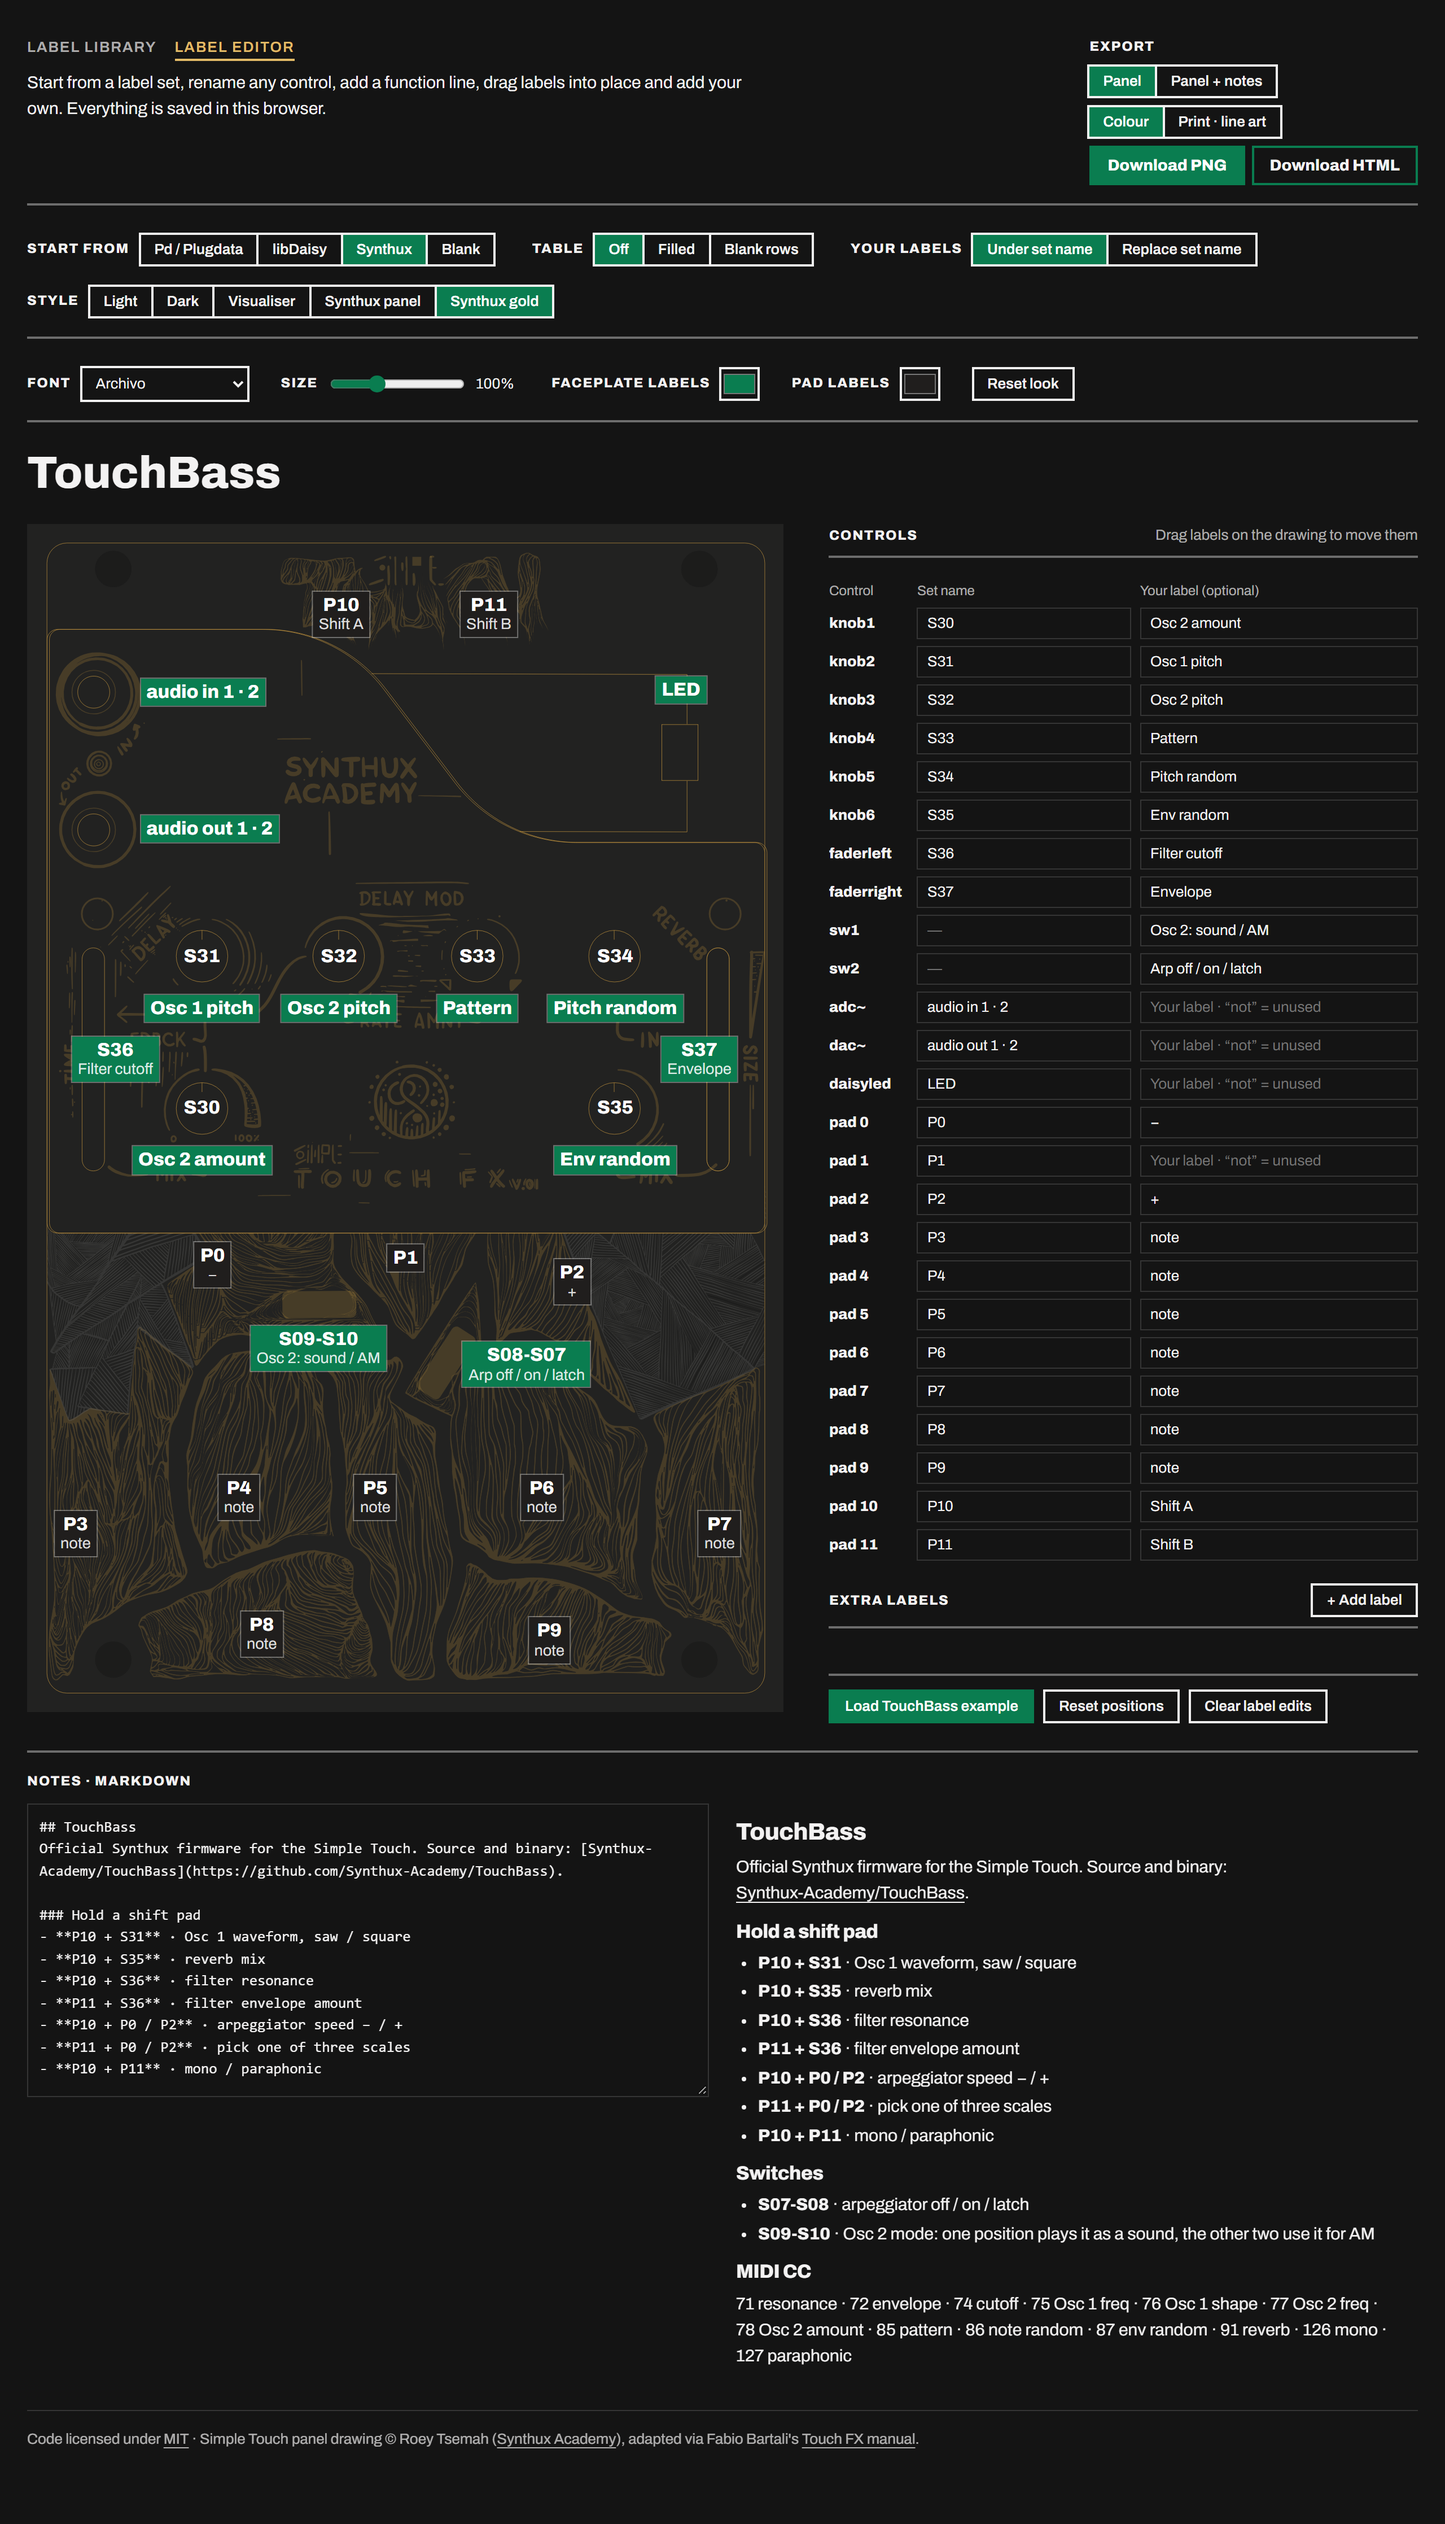
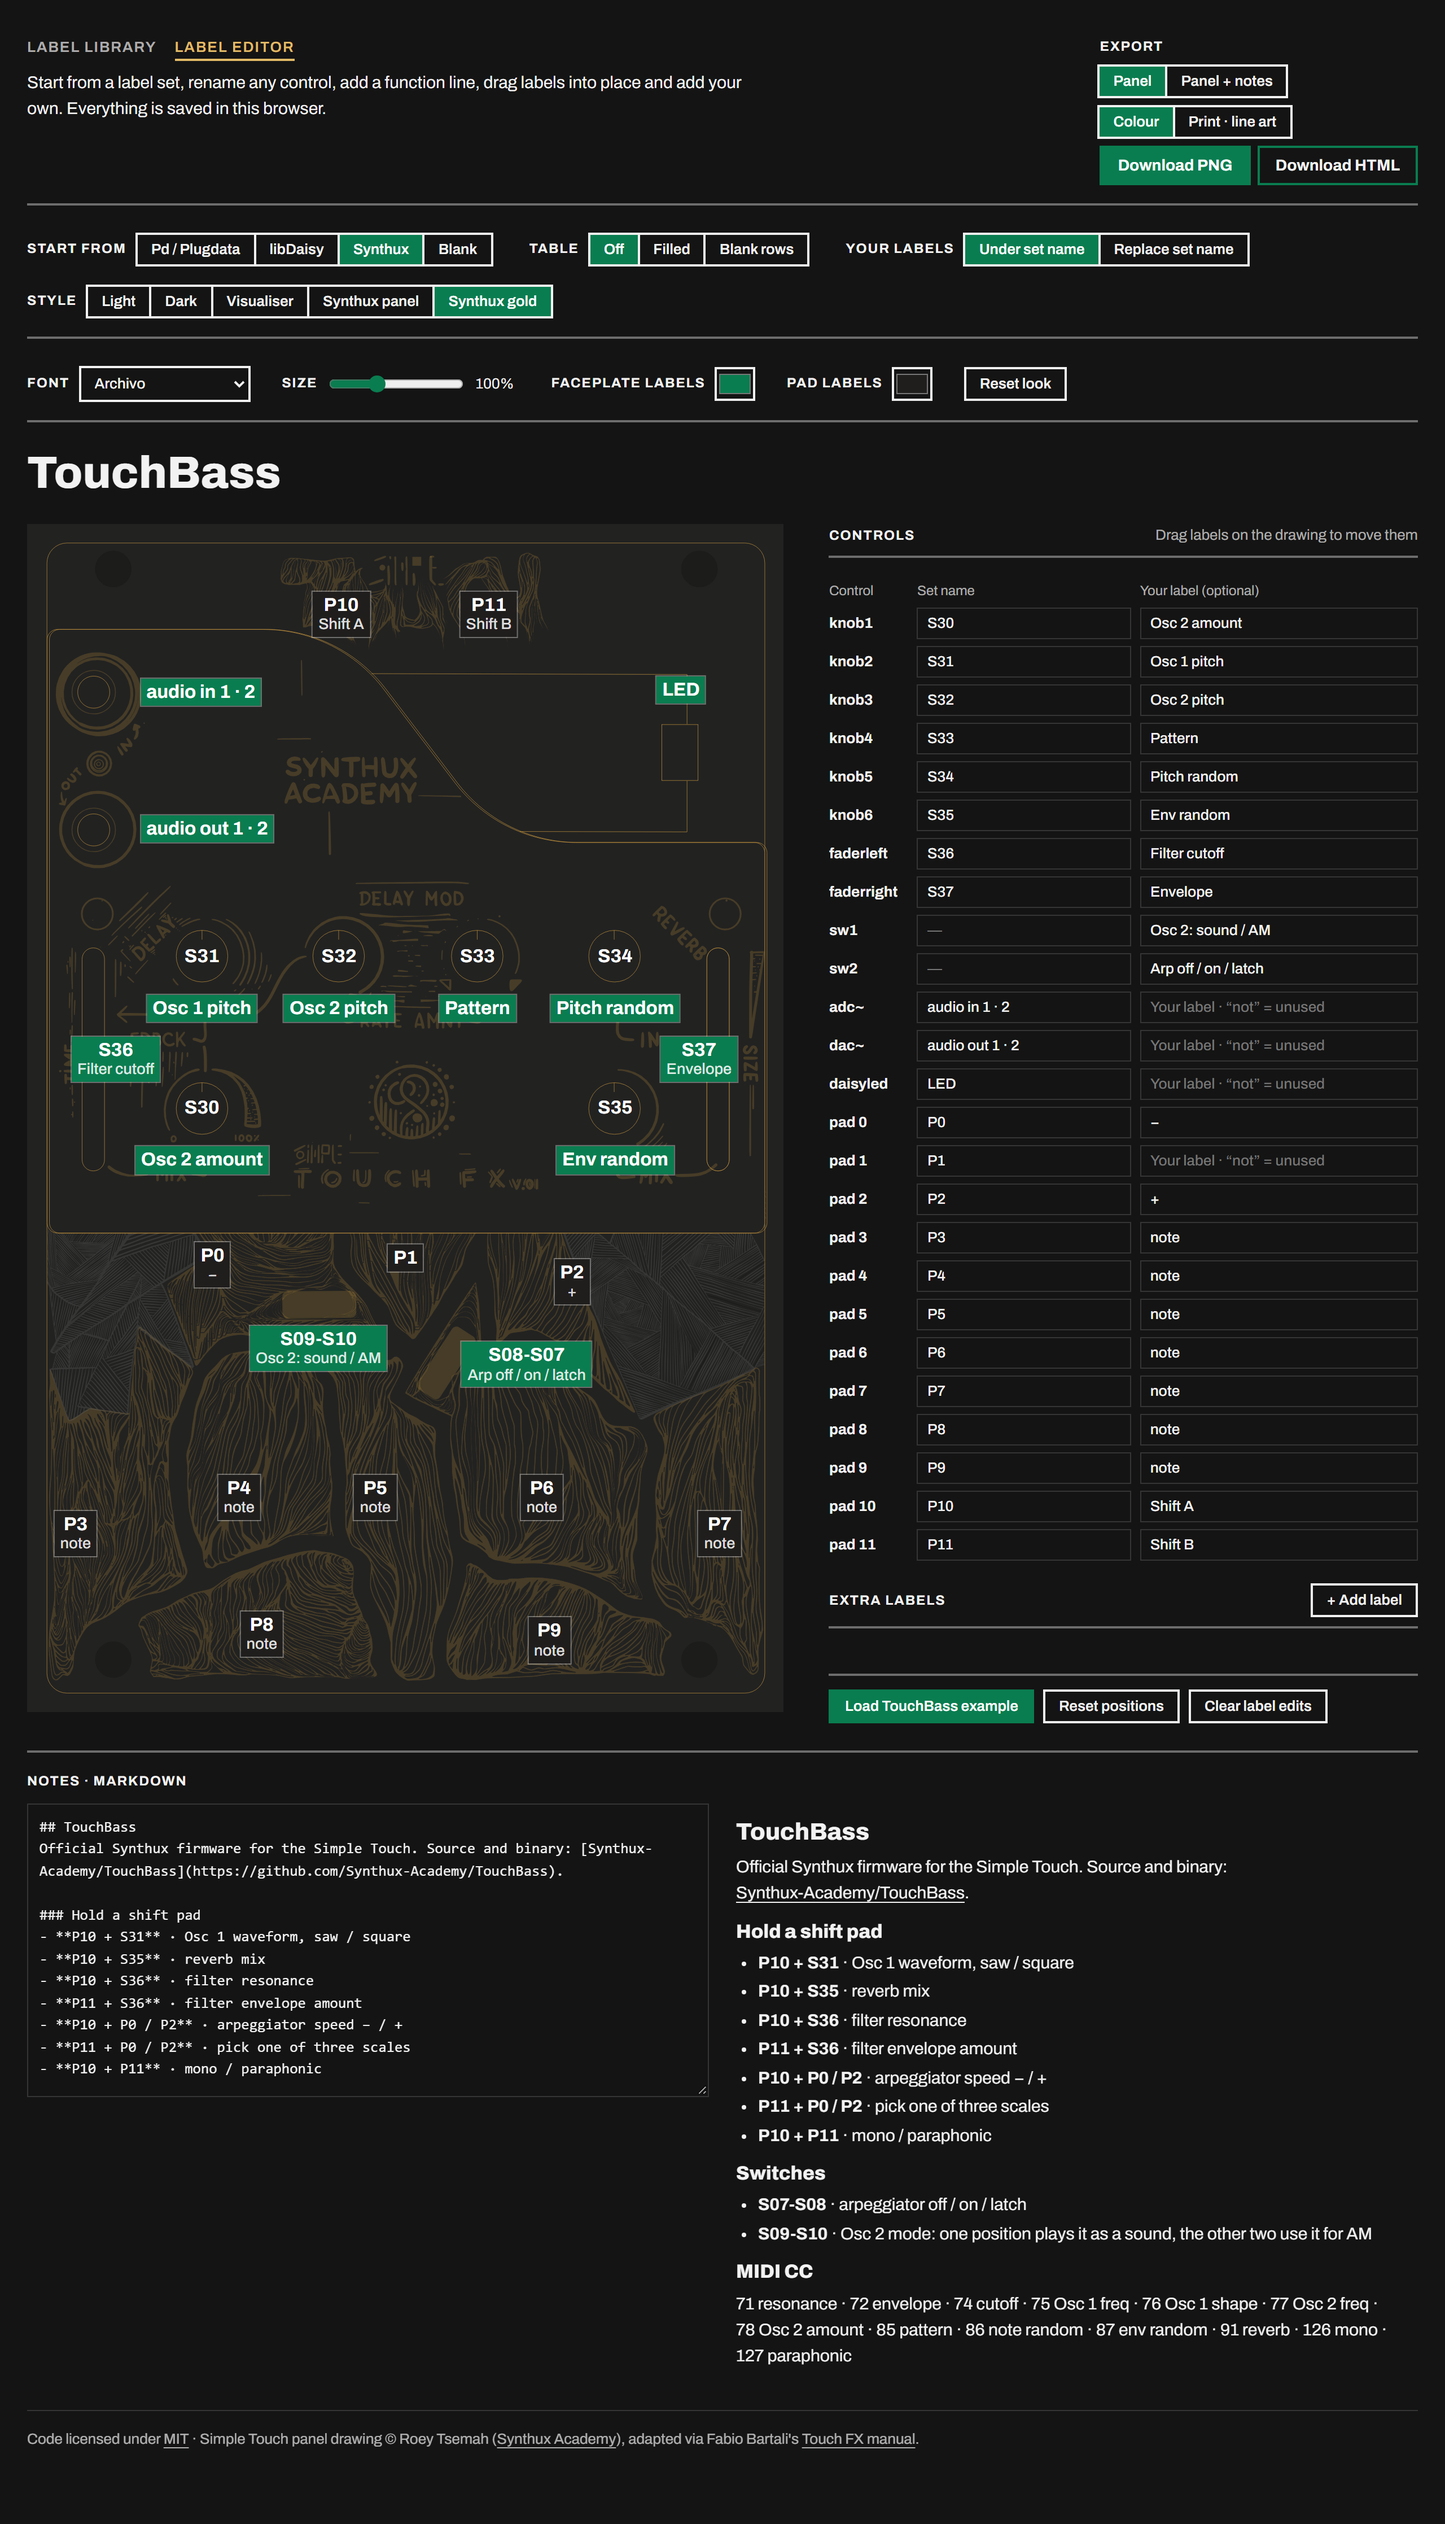
Omit 1 and 2 switch boxes in non-Pd templates, keeping only center 0

diff --git a/index.html b/index.html
@@ -114,9 +114,9 @@
             <sc-if value="{{ l.sw }}" hint-placeholder-val="{{ false }}">
               <span style="display:flex;flex-direction:{{ l.swDir }};align-items:center;gap:2px">
                 <sc-if value="{{ l.a }}" hint-placeholder-val="{{ false }}"><span style="padding:0 3px">{{ l.a }}</span></sc-if>
-                <span style="display:flex;align-items:center;justify-content:center;min-width:1.4em;padding:2px 3px;border:1px solid currentColor">1</span>
+                <sc-if value="{{ l.sw12 }}" hint-placeholder-val="{{ true }}"><span style="display:flex;align-items:center;justify-content:center;min-width:1.4em;padding:2px 3px;border:1px solid currentColor">1</span></sc-if>
                 <span style="display:flex;align-items:center;justify-content:center;min-width:1.4em;padding:2px 3px;border:1px solid currentColor;opacity:.65">0</span>
-                <span style="display:flex;align-items:center;justify-content:center;min-width:1.4em;padding:2px 3px;border:1px solid currentColor">2</span>
+                <sc-if value="{{ l.sw12 }}" hint-placeholder-val="{{ true }}"><span style="display:flex;align-items:center;justify-content:center;min-width:1.4em;padding:2px 3px;border:1px solid currentColor">2</span></sc-if>
                 <sc-if value="{{ l.b }}" hint-placeholder-val="{{ false }}"><span style="padding:0 3px">{{ l.b }}</span></sc-if>
               </span>
             </sc-if>
@@ -347,7 +347,7 @@ class Component extends DCLogic {
     }).concat(SW.map(s => {
       const [l, tp, tf, kind] = isPanel ? s.pan : s.abs;
       return { left: l + '%', top: tp + '%', tf, ...this.chip(isPanel ? kind : swKind, t),
-        name: pd ? s.pd : null, sub: null, align: 'flex-start', sw: true, swDir: s.dir, a: pd ? null : sx ? s.sa : s.a, b: pd ? null : sx ? s.sb : s.b };
+        name: pd ? s.pd : null, sub: null, align: 'flex-start', sw: true, sw12: pd, swDir: s.dir, a: pd ? null : sx ? s.sa : s.a, b: pd ? null : sx ? s.sb : s.b };
     }));
     const opt = (list, key) => list.map(([v, label]) => {
       const on = this.state[key] === v;

diff --git a/editor.html b/editor.html
@@ -115,9 +115,9 @@
             <sc-if value="{{ l.sw }}" hint-placeholder-val="{{ false }}">
               <span style="display:flex;flex-direction:{{ l.swDir }};align-items:center;gap:2px">
                 <sc-if value="{{ l.a }}" hint-placeholder-val="{{ false }}"><span style="padding:0 3px">{{ l.a }}</span></sc-if>
-                <span style="display:flex;align-items:center;justify-content:center;min-width:1.4em;padding:2px 3px;border:1px solid currentColor">1</span>
+                <sc-if value="{{ l.sw12 }}" hint-placeholder-val="{{ true }}"><span style="display:flex;align-items:center;justify-content:center;min-width:1.4em;padding:2px 3px;border:1px solid currentColor">1</span></sc-if>
                 <span style="display:flex;align-items:center;justify-content:center;min-width:1.4em;padding:2px 3px;border:1px solid currentColor;opacity:.65">0</span>
-                <span style="display:flex;align-items:center;justify-content:center;min-width:1.4em;padding:2px 3px;border:1px solid currentColor">2</span>
+                <sc-if value="{{ l.sw12 }}" hint-placeholder-val="{{ true }}"><span style="display:flex;align-items:center;justify-content:center;min-width:1.4em;padding:2px 3px;border:1px solid currentColor">2</span></sc-if>
                 <sc-if value="{{ l.b }}" hint-placeholder-val="{{ false }}"><span style="padding:0 3px">{{ l.b }}</span></sc-if>
               </span>
             </sc-if>
@@ -471,7 +471,7 @@ class Component extends DCLogic {
       if (mine) {
         labels.push(mk(id, g[0] + o.x, g[1] + o.y, g[2], face, own === 'replace' || !setName ? { name: mine } : { name: setName, sub: mine }));
       } else {
-        labels.push(mk(id, g[0] + o.x, g[1] + o.y, g[2], face, { name: val(id, 'name', 0) || null, align: 'flex-start', sw: true, swDir: s.dir, a, b }));
+        labels.push(mk(id, g[0] + o.x, g[1] + o.y, g[2], face, { name: val(id, 'name', 0) || null, align: 'flex-start', sw: true, sw12: !a && preset === 'pd', swDir: s.dir, a, b }));
       }
     });
     customs.forEach((c, i) => {

diff --git a/styles.css b/styles.css
@@ -49,3 +49,4 @@ h1, h2, h3, h4, h5, h6 {
 a { color: inherit; text-underline-offset: 3px; }
 a:hover { color: var(--color-accent); }
 ::selection { background: color-mix(in srgb, var(--color-accent) 30%, transparent); }
+
